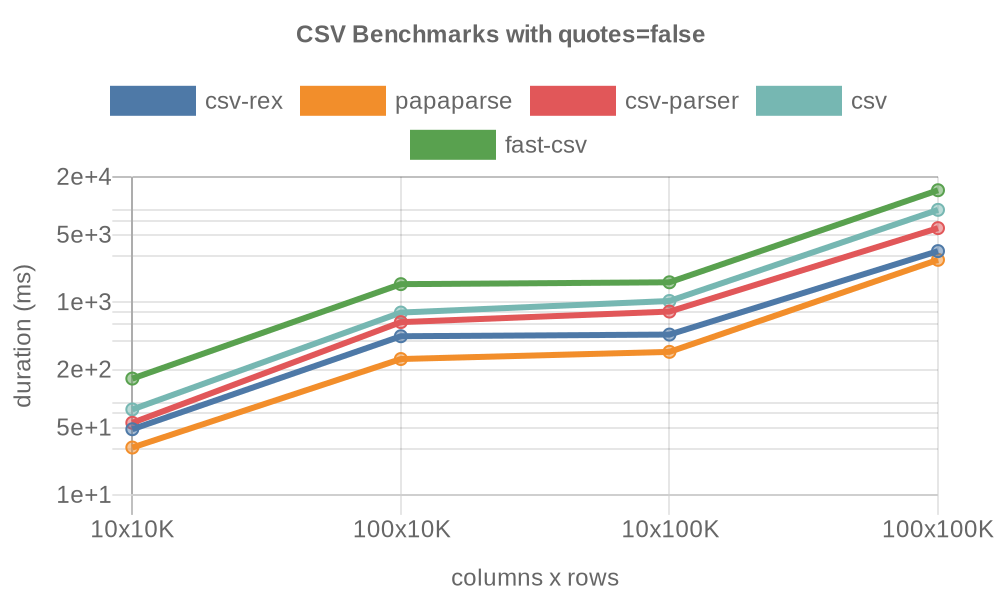
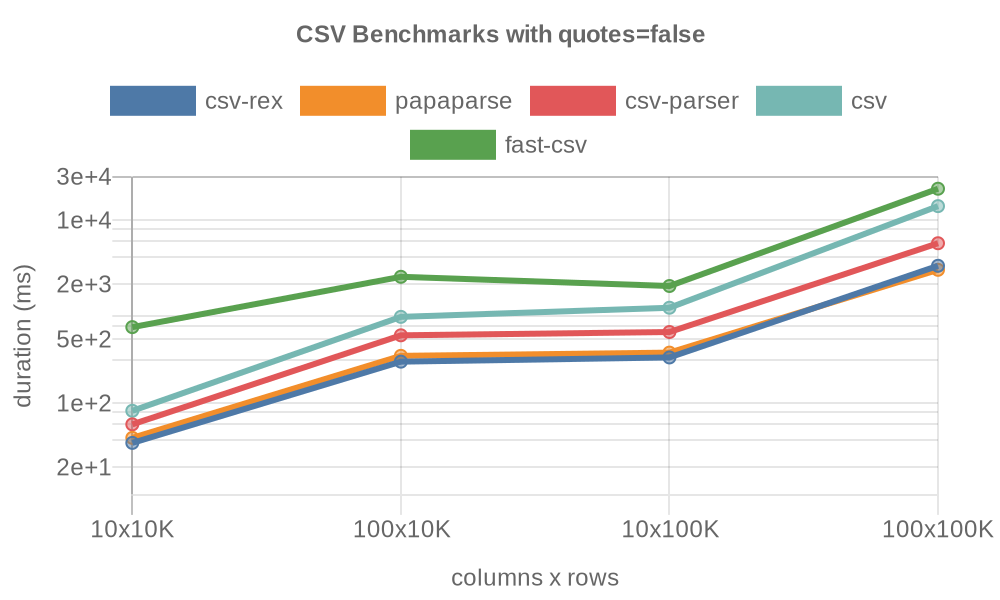
fix: preset options so auto guess not required

Changed region(s): [[0.062, 0.3, 0.961, 0.84]]

diff --git a/packages/papaparse/index.js b/packages/papaparse/index.js
@@ -1,6 +1,6 @@
 import Papa from "papaparse";
 
-export const parse = () => Papa.parse(Papa.NODE_STREAM_INPUT)
+export const parse = () => Papa.parse(Papa.NODE_STREAM_INPUT, {delimiter:",", newline:"\r\n"})
 export const format = () => Papa.unparse(Papa.NODE_STREAM_INPUT)
 
 export default { parse, format }

diff --git a/packages/csv-rex/index.js b/packages/csv-rex/index.js
@@ -1,6 +1,6 @@
 import { csvParseStream, csvFormatStream } from '@datastream/csv'
 
-export const parse = csvParseStream
-export const format = csvFormatStream
+export const parse = () => csvParseStream({ header:false })
+export const format = () => csvFormatStream()
 
 export default { parse, format }

diff --git a/README.md b/README.md
@@ -21,11 +21,11 @@ Benchmarked on GitHub Actions.
 <!-- quotes=true -->
 | Package | 10x10K | 100x10K | 10x100K | 100x100K 
 |---------|---|---|---|---
-| **csv-rex** | 32ms | 291ms | 279ms | 2964ms 
-| **papaparse** | 34ms | 273ms | 337ms | 3023ms 
-| **csv-parser** | 50ms | 468ms | 487ms | 5147ms 
-| **csv** | 78ms | 672ms | 813ms | 8111ms 
-| **fast-csv** | 192ms | 1517ms | 1669ms | 15068ms 
+| **csv-rex** | 28ms | 217ms | 250ms | 2665 
+| **papaparse** | 47ms | 379ms | 421ms | 2969 
+| **csv-parser** | 53ms | 492ms | 541ms | 5927 
+| **csv** | 88ms | 752ms | 907ms | 8331 
+| **fast-csv** | 170ms | 1570ms | 3509ms | 15129 
 <!-- quotes=true -->
 
 ![Non-Quoted CSV Parser Benchmarks](https://github.com/willfarrell/csv-benchmarks/raw/main/results/quotes%3Dfalse.png)
@@ -33,17 +33,17 @@ Benchmarked on GitHub Actions.
 <!-- quotes=false -->
 | Package | 10x10K | 100x10K | 10x100K | 100x100K 
 |---------|---|---|---|---
-| **csv-rex** | 48ms | 443ms | 461ms | 3388ms 
-| **papaparse** | 31ms | 257ms | 305ms | 2750ms 
-| **csv-parser** | 56ms | 621ms | 799ms | 5868ms 
-| **csv** | 77ms | 780ms | 1029ms | 9077ms 
-| **fast-csv** | 161ms | 1538ms | 1608ms | 14512ms 
-
+| **csv-rex** | 37ms | 286ms | 318ms | 3194 
+| **papaparse** | 42ms | 331ms | 359ms | 2886 
+| **csv-parser** | 59ms | 555ms | 603ms | 5634 
+| **csv** | 83ms | 883ms | 1111ms | 14343 
+| **fast-csv** | 682ms | 2420ms | 1920ms | 22217 
 <!-- quotes=false -->
 
 ## Roadmap
 - Add in more parsers
   - `stream-csv-as-json`
+  - `30-seconds-of-code`
 - Add in formatters
   - `csv-string`
 

diff --git a/results/quotes=false.md b/results/quotes=false.md
@@ -1,1 +1,1 @@
-"| Package | 10x10K | 100x10K | 10x100K | 100x100K \n|---------|---|---|---|---\n| **csv-rex** | 48 | 443 | 461 | 3388 \n| **papaparse** | 31 | 257 | 305 | 2750 \n| **csv-parser** | 56 | 621 | 799 | 5868 \n| **csv** | 77 | 780 | 1029 | 9077 \n| **fast-csv** | 161 | 1538 | 1608 | 14512 \n"
+"| Package | 10x10K | 100x10K | 10x100K | 100x100K \n|---------|---|---|---|---\n| **csv-rex** | 37ms | 286ms | 318ms | 3194 \n| **papaparse** | 42ms | 331ms | 359ms | 2886 \n| **csv-parser** | 59ms | 555ms | 603ms | 5634 \n| **csv** | 83ms | 883ms | 1111ms | 14343 \n| **fast-csv** | 682ms | 2420ms | 1920ms | 22217 \n"

diff --git a/results/quotes=true.md b/results/quotes=true.md
@@ -1,1 +1,1 @@
-"| Package | 10x10K | 100x10K | 10x100K | 100x100K \n|---------|---|---|---|---\n| **csv-rex** | 32 | 291 | 279 | 2964 \n| **papaparse** | 34 | 273 | 337 | 3023 \n| **csv-parser** | 50 | 468 | 487 | 5147 \n| **csv** | 78 | 672 | 813 | 8111 \n| **fast-csv** | 192 | 1517 | 1669 | 15068 \n"
+"| Package | 10x10K | 100x10K | 10x100K | 100x100K \n|---------|---|---|---|---\n| **csv-rex** | 28ms | 217ms | 250ms | 2665 \n| **papaparse** | 47ms | 379ms | 421ms | 2969 \n| **csv-parser** | 53ms | 492ms | 541ms | 5927 \n| **csv** | 88ms | 752ms | 907ms | 8331 \n| **fast-csv** | 170ms | 1570ms | 3509ms | 15129 \n"
